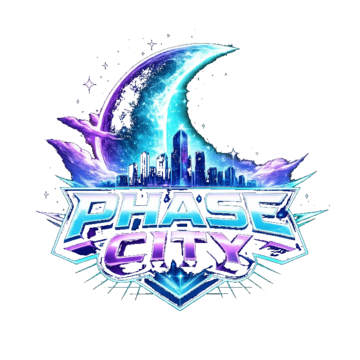
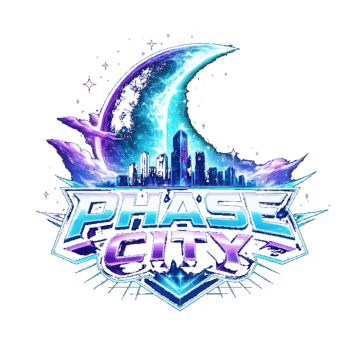
Optimize Core Web Vitals: images, fonts, JS, and rendering
Images:
- Resize all PNGs to 2x display size (660KB → 130KB total)
- Add WebP versions with <picture> fallbacks (50KB WebP total)
- Add fetchpriority="high" + decoding="sync" on LCP hero image
- Add decoding="async" on below-fold images
- Add explicit width/height attributes for CLS prevention

Fonts:
- Trim unused weights: Syne 400/600, DM Sans 300 (11 → 8 files)
- Preload hero logo WebP for faster nav render

JavaScript:
- Star field: DocumentFragment + requestIdleCallback (80 → 1 DOM op)
- Star field: reduce to 40 stars on mobile
- Search: 150ms debounce + pre-cached text content
- Nav observer: single classList toggle instead of 3 inline styles per link

CSS:
- content-visibility:auto on sections (skip rendering off-screen)
- will-change:opacity + contain:strict on stars (GPU compositing)
- prefers-reduced-motion: disable all animations
- .nav-on class replaces inline style manipulation

diff --git a/index.html b/index.html
@@ -18,8 +18,9 @@
 <title>Phase City — Rules & Community Guidelines</title>
 <link rel="preconnect" href="https://fonts.googleapis.com">
 <link rel="preconnect" href="https://fonts.gstatic.com" crossorigin>
-<link href="https://fonts.googleapis.com/css2?family=Syne:wght@400;600;700;800&family=DM+Sans:ital,wght@0,300;0,400;0,500;0,600;0,700&family=JetBrains+Mono:wght@400;500&display=swap" rel="stylesheet">
-<link rel="preload" as="image" href="img/moon.png">
+<link href="https://fonts.googleapis.com/css2?family=Syne:wght@700;800&family=DM+Sans:wght@400;500;600;700&family=JetBrains+Mono:wght@400;500&display=swap" rel="stylesheet">
+<link rel="preload" as="image" type="image/webp" href="img/moon.webp">
+<link rel="preload" as="image" type="image/webp" href="img/logo.webp">
 <style>
 :root {
   --bg: #05020F;
@@ -54,7 +55,8 @@ code{font-family:'JetBrains Mono',monospace;font-size:.88em;background:rgba(139,
 @keyframes grad{0%{background-position:0% 50%}50%{background-position:100% 50%}100%{background-position:0% 50%}}
 
 .stars{position:fixed;inset:0;z-index:0;pointer-events:none;overflow:hidden}
-.star{position:absolute;border-radius:50%;background:#fff;animation:twinkle var(--d) var(--dl) ease-in-out infinite}
+.star{position:absolute;border-radius:50%;background:#fff;animation:twinkle var(--d) var(--dl) ease-in-out infinite;will-change:opacity;contain:strict}
+@media(prefers-reduced-motion:reduce){.star,.hero-moon,.hero .grtxt{animation:none!important}}
 
 /* NAV */
 nav{position:fixed;top:0;left:0;right:0;z-index:100;background:rgba(5,2,15,.88);backdrop-filter:blur(24px);border-bottom:1px solid rgba(139,92,246,.1);height:64px;display:flex;align-items:center;justify-content:space-between;padding:0 clamp(16px,4vw,40px)}
@@ -64,11 +66,11 @@ nav{position:fixed;top:0;left:0;right:0;z-index:100;background:rgba(5,2,15,.88);
 .n-logo .ac{color:var(--v)}
 .n-links{display:flex;gap:4px;flex-wrap:wrap}
 .n-links a{color:var(--tm);font-size:13px;font-weight:500;padding:6px 14px;border-radius:6px;border:1px solid transparent;transition:.3s}
-.n-links a:hover{background:rgba(139,92,246,.12);border-color:rgba(139,92,246,.25);color:var(--vl)}
+.n-links a:hover,.n-links a.nav-on{background:rgba(139,92,246,.12);border-color:rgba(139,92,246,.25);color:var(--vl)}
 
 /* CONTAINERS */
 .wrap{max-width:920px;margin:0 auto;padding:0 clamp(16px,4vw,32px);position:relative;z-index:1}
-section{padding:100px 0}
+section{padding:100px 0;content-visibility:auto;contain-intrinsic-size:auto 800px}
 
 /* HERO */
 .hero{min-height:100vh;display:flex;flex-direction:column;align-items:center;justify-content:center;text-align:center;padding:100px 24px 60px;position:relative}
@@ -235,7 +237,7 @@ footer .cp{font-family:'JetBrains Mono',monospace;font-size:11px;color:var(--td)
 <!-- Nav -->
 <nav>
   <a href="#hero" class="n-logo">
-    <img src="img/logo.png" alt="" style="width:24px;height:24px;filter:drop-shadow(0 0 8px rgba(139,92,246,.4))">
+    <picture><source srcset="img/logo.webp" type="image/webp"><img src="img/logo.png" alt="" width="48" height="44" style="width:24px;height:24px;filter:drop-shadow(0 0 8px rgba(139,92,246,.4))"></picture>
     <span>PHASE<span class="ac">CITY</span></span>
   </a>
   <div class="n-links">
@@ -261,7 +263,7 @@ footer .cp{font-family:'JetBrains Mono',monospace;font-size:11px;color:var(--td)
 <section class="hero" id="hero">
   <div class="hero-glow"></div>
   <div class="hero-moon">
-    <img src="img/moon.png" alt="Phase City" width="360" height="360" style="width:clamp(200px,40vw,360px);height:auto;filter:drop-shadow(0 0 40px rgba(139,92,246,.4))">
+    <picture><source srcset="img/moon.webp" type="image/webp"><img src="img/moon.png" alt="Phase City" width="360" height="360" fetchpriority="high" decoding="sync" style="width:clamp(200px,40vw,360px);height:auto;filter:drop-shadow(0 0 40px rgba(139,92,246,.4))"></picture>
   </div>
   <h1><span class="grtxt">PHASE CITY</span></h1>
   <p class="hero-sub">Rules &amp; Community Guidelines</p>
@@ -298,7 +300,7 @@ footer .cp{font-family:'JetBrains Mono',monospace;font-size:11px;color:var(--td)
   <p class="sdsc" style="font-style:italic">Where shadows hold secrets and every corner has a price</p>
 
   <div class="lc"><div class="bar" style="background:linear-gradient(to bottom,var(--v),var(--cy))"></div>
-    <div class="lc-hd"><img src="img/chapter.png" alt="" loading="lazy" style="width:28px;height:28px"><div><span class="num">CHAPTER 01</span><h3>The Founding</h3></div></div>
+    <div class="lc-hd"><picture><source srcset="img/chapter.webp" type="image/webp"><img src="img/chapter.png" alt="" loading="lazy" decoding="async" width="56" height="51" style="width:28px;height:28px"></picture><div><span class="num">CHAPTER 01</span><h3>The Founding</h3></div></div>
     <p>Phase City wasn't built — it was forged. In the aftermath of San Andreas' economic collapse, a consortium of power brokers, underground kingpins, and visionary politicians carved out a new jurisdiction from the bones of Los Santos. They called it Phase City — a place where reinvention wasn't just possible, it was required. The old rules didn't apply here. The city operated under its own charter, its own law enforcement, its own economy. What emerged was something between a utopia and a powder keg: a city where anyone could become anything, if they had the nerve to survive the climb.</p>
   </div>
 
@@ -686,7 +688,7 @@ footer .cp{font-family:'JetBrains Mono',monospace;font-size:11px;color:var(--td)
 <div class="wrap rv">
   <div class="jc">
     <div class="glow"></div>
-    <img src="img/join.png" alt="" loading="lazy" style="width:56px;height:56px;filter:drop-shadow(0 0 16px rgba(139,92,246,.4))">
+    <picture><source srcset="img/join.webp" type="image/webp"><img src="img/join.png" alt="" loading="lazy" decoding="async" width="112" height="102" style="width:56px;height:56px;filter:drop-shadow(0 0 16px rgba(139,92,246,.4))"></picture>
     <h2>Ready to Enter Phase City?</h2>
     <p>Join our Discord to apply for whitelist, meet the community, and begin writing your story.</p>
     <div class="jbtns">
@@ -707,28 +709,26 @@ footer .cp{font-family:'JetBrains Mono',monospace;font-size:11px;color:var(--td)
 <!-- FOOTER -->
 <footer>
   <div class="fl">
-    <img src="img/footer-logo.png" alt="" loading="lazy" style="width:18px;height:18px">
+    <picture><source srcset="img/footer-logo.webp" type="image/webp"><img src="img/footer-logo.png" alt="" loading="lazy" decoding="async" width="36" height="33" style="width:18px;height:18px"></picture>
     <span>PHASE<span class="ac">CITY</span></span>
   </div>
   <p class="cp">PHASECITY.NET &copy; 2026 &mdash; ALL RIGHTS RESERVED</p>
 </footer>
 
 <script>
-// Stars
-(function(){
-  const c=document.getElementById('stars');
-  for(let i=0;i<80;i++){
+// Stars — deferred with DocumentFragment to avoid blocking LCP
+(typeof requestIdleCallback==='function'?requestIdleCallback:setTimeout)(function(){
+  const c=document.getElementById('stars'),f=document.createDocumentFragment();
+  const n=window.innerWidth<640?40:80;
+  for(let i=0;i<n;i++){
     const s=document.createElement('div');
     s.className='star';
-    s.style.left=Math.random()*100+'%';
-    s.style.top=Math.random()*100+'%';
     const sz=Math.random()*2+.5;
-    s.style.width=sz+'px';s.style.height=sz+'px';
-    s.style.setProperty('--d',(Math.random()*3+2)+'s');
-    s.style.setProperty('--dl',(Math.random()*4)+'s');
-    c.appendChild(s);
+    s.style.cssText='left:'+Math.random()*100+'%;top:'+Math.random()*100+'%;width:'+sz+'px;height:'+sz+'px;--d:'+(Math.random()*3+2)+'s;--dl:'+(Math.random()*4)+'s';
+    f.appendChild(s);
   }
-})();
+  c.appendChild(f);
+});
 
 // Toggle rule accordion
 function tog(id){document.getElementById(id).classList.toggle('open')}
@@ -737,17 +737,17 @@ function tog(id){document.getElementById(id).classList.toggle('open')}
 const obs=new IntersectionObserver(e=>{e.forEach(x=>{if(x.isIntersecting)x.target.classList.add('vis')})},{threshold:.1});
 document.querySelectorAll('.rv').forEach(el=>obs.observe(el));
 
-// Nav highlight
+// Nav highlight — optimized with single class toggle instead of 3 inline style changes per link
 const sections=document.querySelectorAll('section[id]');
 const navLinks=document.querySelectorAll('.n-links a');
+let activeNav=null;
 const navObs=new IntersectionObserver(e=>{
   e.forEach(x=>{
     if(x.isIntersecting){
-      navLinks.forEach(a=>{
-        a.style.background=a.getAttribute('href')==='#'+x.target.id?'rgba(139,92,246,.12)':'';
-        a.style.borderColor=a.getAttribute('href')==='#'+x.target.id?'rgba(139,92,246,.25)':'transparent';
-        a.style.color=a.getAttribute('href')==='#'+x.target.id?'#C4B5FD':'';
-      });
+      const id='#'+x.target.id;
+      if(activeNav)activeNav.classList.remove('nav-on');
+      const link=[...navLinks].find(a=>a.getAttribute('href')===id);
+      if(link){link.classList.add('nav-on');activeNav=link;}
     }
   });
 },{threshold:.3});
@@ -765,22 +765,28 @@ function closeMob(){
   document.body.style.overflow='';
 }
 
-// Rule search filter
+// Rule search filter — debounced to reduce INP
 (function(){
   const input=document.getElementById('rule-filter');
   const clear=document.getElementById('s-clear');
   const noRes=document.getElementById('no-results');
   const cards=document.querySelectorAll('#rules .rc');
+  // Pre-cache text content to avoid repeated DOM reads
+  const cardTexts=Array.from(cards).map(c=>c.textContent.toLowerCase());
+  let timer;
   input.addEventListener('input',function(){
-    const q=this.value.toLowerCase().trim();
-    clear.classList.toggle('show',q.length>0);
-    let found=0;
-    cards.forEach(c=>{
-      const match=!q||c.textContent.toLowerCase().includes(q);
-      c.classList.toggle('filtered-out',!match);
-      if(match)found++;
-    });
-    noRes.classList.toggle('show',found===0&&q.length>0);
+    clear.classList.toggle('show',this.value.length>0);
+    clearTimeout(timer);
+    timer=setTimeout(()=>{
+      const q=input.value.toLowerCase().trim();
+      let found=0;
+      cards.forEach((c,i)=>{
+        const match=!q||cardTexts[i].includes(q);
+        c.classList.toggle('filtered-out',!match);
+        if(match)found++;
+      });
+      noRes.classList.toggle('show',found===0&&q.length>0);
+    },150);
   });
   window.clearSearch=function(){
     input.value='';
